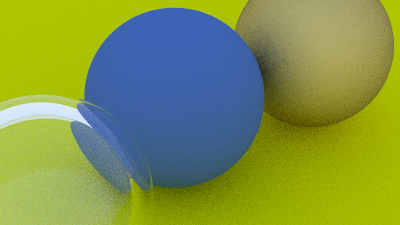
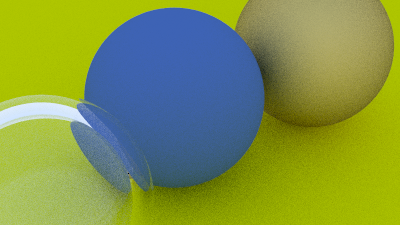
Clean + redure renderer responsabilites + differenciation one and multi thread rendering

Changed region(s): [[0.0, 0.5289, 0.33, 1.0], [0.09, 0.4356, 0.18, 0.4667], [0.03, 0.4356, 0.06, 0.4667]]

diff --git a/Raytracer/source/Renderer.cpp b/Raytracer/source/Renderer.cpp
@@ -8,12 +8,10 @@
 #include "Image/ImageBuffer.h"
 #include "ThreadPool.h"
 #include "Tile.h"
-#include "Image/PPMWriter.h"
-#include "Image/PngWriter.h"
-#include "Image/JpgWriter.h"
 
 #include <iostream>
 #include <future>
+#include <iomanip>
 
 Renderer::Renderer(const RendererConfig& config)
 {
@@ -22,22 +20,49 @@ Renderer::Renderer(const RendererConfig& config)
     progressMonitorFrequency = config.progressMonitorFrequency;
 }
 
-void Renderer::Render(const Camera& camera, const Scene& scene, const std::string fileName) const
+ImageBuffer Renderer::Render(const Camera& camera, const Scene& scene, const std::string fileName) const
 {
-    std::clog << "\033[?25l" << std::flush; // Hide command prompt cursor
-
     int width = camera.GetImageWidth();
     int height = camera.GetImageHeight();
 
-    ImageBuffer framebuffer(width, height);
-
-    ThreadPool threadPool(std::max<size_t>(1, threadCount - 1));
+    ImageBuffer imageBuffer(width, height);
 
     std::vector<Tile> tiles = GenerateTiles(width, height, tileSize);
-    tileCount = static_cast<unsigned int>(tiles.size());
 
-    std::thread progressThread = std::thread(&Renderer::ProgressMonitor, this);
+    if (threadCount <= 1)
+    {
+        RenderSingleThread(camera, scene, imageBuffer, tiles);
+    }
+    else
+    {
+        RenderMultiThread(camera, scene, imageBuffer, tiles, threadCount);
+    }
 
+    return imageBuffer;
+}
+
+void Renderer::RenderSingleThread(const Camera& camera, const Scene& scene, ImageBuffer& imageBuffer, const std::vector<Tile>& tiles) const
+{
+    RenderProgress renderProgress;
+    renderProgress.tileCount = static_cast<unsigned int>(tiles.size());
+
+    for (const Tile& tile : tiles)
+    {
+        RenderTile(tile, camera, scene, imageBuffer);
+
+        ++renderProgress.completedTiles;
+
+        DisplayProgress(renderProgress);
+    }
+}
+
+void Renderer::RenderMultiThread(const Camera& camera, const Scene& scene, ImageBuffer& imageBuffer, const std::vector<Tile>& tiles, unsigned int threadCount) const
+{
+    RenderProgress renderProgress;
+    renderProgress.tileCount = static_cast<unsigned int>(tiles.size());
+
+    ThreadPool threadPool(std::max<size_t>(1, threadCount - 1));
+    
     std::vector<std::future<void>> futures;
     futures.reserve(tiles.size());
 
@@ -51,47 +76,31 @@ void Renderer::Render(const Camera& camera, const Scene& scene, const std::strin
                         tile,
                         camera,
                         scene,
-                        framebuffer
+                        imageBuffer
                     );
+
+                    renderProgress.completedTiles.fetch_add(1, std::memory_order_relaxed);
                 })
-            );
+        );
     }
 
-    // Wait for render end
-    for (auto& future : futures)
+    while (renderProgress.completedTiles.load(std::memory_order_relaxed) < renderProgress.tileCount)
+    {
+        DisplayProgress(renderProgress);
+
+       std::this_thread::sleep_for(std::chrono::milliseconds(progressMonitorFrequency));
+    }
+
+    // Get eventual exceptions
+    for (std::future<void>& future : futures)
     {
         future.get();
     }
 
-    renderingDone.store(true, std::memory_order_relaxed);
-    progressThread.join();
-
-    if (fileName.size() >= 4)
-    {
-        std::string suffix = fileName.substr(fileName.size() - 4);
-        if (suffix == ".png")
-        {
-            PngWriter pngWriter;
-            pngWriter.Write(fileName, framebuffer);
-        }
-        else if (suffix == ".jpg")
-        {
-            JpgWriter jpgWriter;
-            jpgWriter.Write(fileName, framebuffer);
-        }
-        else if (suffix == ".ppm")
-        {
-            PPMWriter ppmWriter;
-            ppmWriter.Write(fileName, framebuffer);
-        }
-    }
-
-    std::clog << "\rDone.                 \n";
-
-    std::clog << "\033[?25h" << std::flush; // Show command prompt cursor
+    DisplayProgress(renderProgress);
 }
 
-void Renderer::RenderTile(const Tile& tile, const Camera& camera, const Scene& scene, ImageBuffer& frameBuffer) const
+void Renderer::RenderTile(const Tile& tile, const Camera& camera, const Scene& scene, ImageBuffer& imageBuffer) const
 {
     for (int y = tile.y; y < tile.y + tile.height; ++y)
     {
@@ -114,21 +123,15 @@ void Renderer::RenderTile(const Tile& tile, const Camera& camera, const Scene& s
                 pixelColor = scene.GetPixelColor(ray, camera.GetMaxDepth());
             }
 
-            frameBuffer.SetPixel(x, y, pixelColor);
+            imageBuffer.SetPixel(x, y, pixelColor);
         }
     }
-
-    completedTiles.fetch_add(1, std::memory_order_relaxed);
 }
 
-void Renderer::ProgressMonitor() const
+void Renderer::DisplayProgress(const RenderProgress& progress) const
 {
-    while (!renderingDone.load(std::memory_order_relaxed))
-    {
-        std::unique_lock<std::mutex> lock(progressMutex);
-        
-        std::clog << "\rRendering: " << ((completedTiles.load(std::memory_order_relaxed)*100) / tileCount) << '%' << std::flush;
+    const unsigned int completed = progress.completedTiles.load(std::memory_order_relaxed);
+    const float percentage = progress.tileCount > 0 ? 100.0f * completed / progress.tileCount : 100.0f;
 
-        std::this_thread::sleep_for(std::chrono::milliseconds(progressMonitorFrequency));
-    }
+    std::clog << "\rRendering: " << std::fixed << std::setprecision(1) << percentage << '%' << std::flush;
 }

diff --git a/Raytracer/include/Renderer.h b/Raytracer/include/Renderer.h
@@ -12,6 +12,14 @@ class ImageBuffer;
 #include <atomic>
 #include <mutex>
 #include <string>
+#include <vector>
+
+struct RenderProgress
+{
+public:
+	unsigned int tileCount = 0;
+	std::atomic<unsigned int> completedTiles = { 0 };
+};
 
 struct RendererConfig
 {
@@ -28,25 +36,21 @@ public:
 	// To improve, manage this cases
 	Renderer(const RendererConfig& config);
 
-	void Render(const Camera& camera, const Scene& scene, const std::string fileName) const;
+	ImageBuffer Render(const Camera& camera, const Scene& scene, const std::string fileName) const;
 
 	void UseAntialising(bool newState) { useAntiAliasing = newState; }
 
 private:
-	void RenderTile(const Tile& tile, const Camera& camera, const Scene& scene, ImageBuffer& frameBuffer) const;
-	void ProgressMonitor() const;
+	void RenderSingleThread(const Camera& camera, const Scene& scene, ImageBuffer& imageBuffer, const std::vector<Tile>& tiles) const;
+	void RenderMultiThread(const Camera& camera, const Scene& scene, ImageBuffer& imageBuffer, const std::vector<Tile>& tiles, unsigned int threadCount) const;
+
+	void RenderTile(const Tile& tile, const Camera& camera, const Scene& scene, ImageBuffer& imageBuffer) const;
+	void DisplayProgress(const RenderProgress& progress) const;
 
 	bool useAntiAliasing = true;
 
 	int tileSize;
 	size_t threadCount;
-
-	mutable std::mutex progressMutex;
-
-	mutable unsigned int tileCount = 0;
-	mutable std::atomic<unsigned int> completedTiles = 0;
-
-	mutable std::atomic<bool> renderingDone = false;
 
 	int progressMonitorFrequency;
 };

diff --git a/Raytracer/source/Raytracer.cpp b/Raytracer/source/Raytracer.cpp
@@ -1,5 +1,8 @@
 #include "Raytracer.h"
 #include "Scene/Scene.h"
+#include "Image/ImageBuffer.h"
+#include "Image/ImageWriterFactory.h"
+#include "Image/ImageWriter.h"
 
 Raytracer::Raytracer(const CameraConfiguration& cameraConfig, const RendererConfig& rendererConfig)
 	: camera(cameraConfig), renderer(rendererConfig)
@@ -11,12 +14,27 @@ void Raytracer::SetScene(std::unique_ptr<Scene> newScene)
     scene = std::move(newScene);
 }
 
-void Raytracer::Render(std::string fileName)
+void Raytracer::RenderToFile(std::string fileName)
 {
     if (!scene)
     {
         return;
     }
 
-    renderer.Render(camera, *scene, fileName);
+    ImageBuffer imageBuffer = renderer.Render(camera, *scene, fileName);
+
+    std::clog << "\rWriting image.                 " << std::flush;
+
+    if (fileName.size() >= 4)
+    {
+        std::string extension = fileName.substr(fileName.size() - 4);
+        std::unique_ptr<ImageWriter> writer = ImageWriterFactory::CreateImageWriter(extension);
+
+        if (writer)
+        {
+            writer->Write(fileName, imageBuffer);
+        }
+    }
+
+    std::clog << "\rDone.                 \n";
 }

diff --git a/Raytracer/source/Image/ImageWriterFactory.cpp b/Raytracer/source/Image/ImageWriterFactory.cpp
@@ -1,0 +1,38 @@
+#include "Image/ImageWriterFactory.h"
+#include "Image/PPMWriter.h"
+#include "Image/PngWriter.h"
+#include "Image/JpgWriter.h"
+
+#include <algorithm>
+
+std::unique_ptr<ImageWriter> ImageWriterFactory::CreateImageWriter(const std::string& extension)
+{
+    std::string ext = extension;
+
+    std::transform(
+        ext.begin(),
+        ext.end(),
+        ext.begin(),
+        [](unsigned char c)
+        {
+            return static_cast<char>(std::tolower(c));
+        }
+    );
+
+    if (extension == ".ppm")
+    {
+        return std::make_unique<PPMWriter>();
+    }
+
+    if (extension == ".png")
+    {
+        return std::make_unique<PngWriter>();
+    }
+
+    if (extension == ".jpg")
+    {
+        return std::make_unique<JpgWriter>();
+    }
+
+    return nullptr;
+}

diff --git a/Raytracer/source/Color.cpp b/Raytracer/source/Color.cpp
@@ -44,7 +44,7 @@ Color Color::operator*(float f) const
 
 Color Color::operator/(const Color& rhs)
 {
-	return Color(r + rhs.r, g + rhs.g, b + rhs.b);
+	return Color(r / rhs.r, g / rhs.g, b / rhs.b);
 }
 
 Color Color::operator/(float f) const
@@ -102,7 +102,7 @@ Color& Color::operator/=(float f)
 
 Color Color::Lerp(const Color& colorA, const Color& colorB, float t)
 {
-	return (1.0f - t)* Color(1.0f, 1.0f, 1.0f) + t * Color(0.5f, 0.7f, 1.0f);
+	return (1.0f - t) * colorA + t * colorB;
 }
 
 Color Color::Random()

diff --git a/Raytracer/source/Maths/Vec3.cpp b/Raytracer/source/Maths/Vec3.cpp
@@ -38,7 +38,7 @@ Vec3 Vec3::operator*(float f) const
 
 Vec3 Vec3::operator/(const Vec3& rhs)
 {
-	return Vec3(x + rhs.x, y + rhs.y, z + rhs.z);
+	return Vec3(x / rhs.x, y / rhs.y, z / rhs.z);
 }
 
 Vec3 Vec3::operator/(float f) const
@@ -112,9 +112,9 @@ Vec3 Vec3::GetNormal() const
 void Vec3::Normalize()
 {
 	float length = Length();
-	x *= length;
-	y *= length;
-	z *= length;
+	x /= length;
+	y /= length;
+	z /= length;
 }
 
 float Vec3::Dot(const Vec3& lhs, const Vec3& rhs)

diff --git a/Raytracer/source/ThreadPool.cpp b/Raytracer/source/ThreadPool.cpp
@@ -41,10 +41,11 @@ ThreadPool::ThreadPool(size_t threadCount)
 
 ThreadPool::~ThreadPool()
 {
-	// Lock the queue to update the stop flag safely
-	std::unique_lock<std::mutex> lock(queueMutex);
-	stop = true;
-
+	{
+		// Lock the queue to update the stop flag safely
+		std::lock_guard<std::mutex> lock(queueMutex);
+		stop = true;
+	}
 	// Notify all threads
 	condition.notify_all();
 

diff --git a/Raytracer/source/Image/PPMWriter.cpp b/Raytracer/source/Image/PPMWriter.cpp
@@ -33,7 +33,14 @@ bool PPMWriter::Write(const std::string& filename, const ImageBuffer& frameBuffe
     }
 
     output.flush();
-    return output.good();
+    if (!output.good())
+    {
+        return false;
+    }
+
+    output.close();
+
+    return !output.fail();
 }
 
 void PPMWriter::WriteHeader(std::ofstream& output, int width, int height) const

diff --git a/Raytracer/include/Image/ImageWriterFactory.h b/Raytracer/include/Image/ImageWriterFactory.h
@@ -1,0 +1,14 @@
+#ifndef __IMAGE_WRITER_H_INCLUDED__
+#define __IMAGE_WRITER_H_INCLUDED__
+
+#include <memory>
+#include <string>
+
+class ImageWriter;
+
+namespace ImageWriterFactory
+{
+	std::unique_ptr<ImageWriter> CreateImageWriter(const std::string& extension);
+}
+
+#endif // __IMAGE_WRITER_H_INCLUDED__

diff --git a/main.cpp b/main.cpp
@@ -54,7 +54,7 @@ int main(int argc, char* argv[])
     RendererConfig rendererConfig;
     std::unique_ptr<Raytracer> raytracer = CreateBasicScene(rendererConfig);
 	
-    raytracer->Render(outputFile);
+    raytracer->RenderToFile(outputFile);
 
 	return 0;
 }

diff --git a/Raytracer/include/Raytracer.h b/Raytracer/include/Raytracer.h
@@ -18,7 +18,7 @@ public:
 
     void SetScene(std::unique_ptr<Scene> newScene);
 
-    void Render(std::string fileName);
+    void RenderToFile(std::string fileName);
 
 private:
     Renderer renderer;
